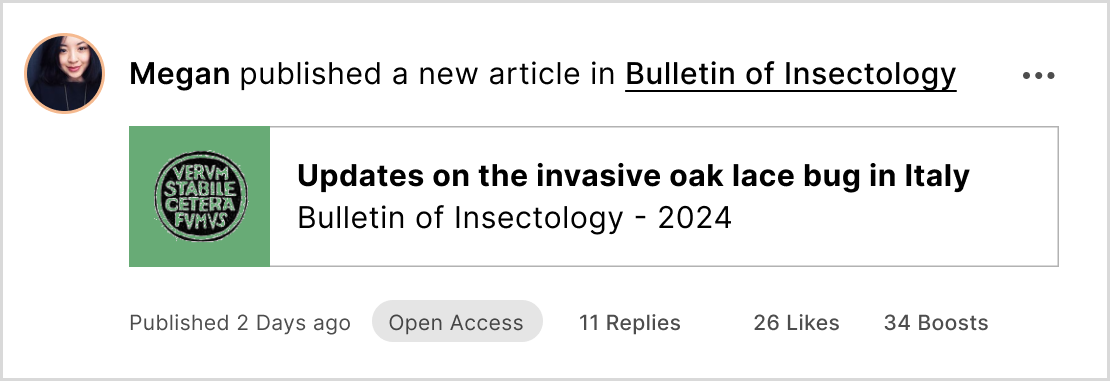
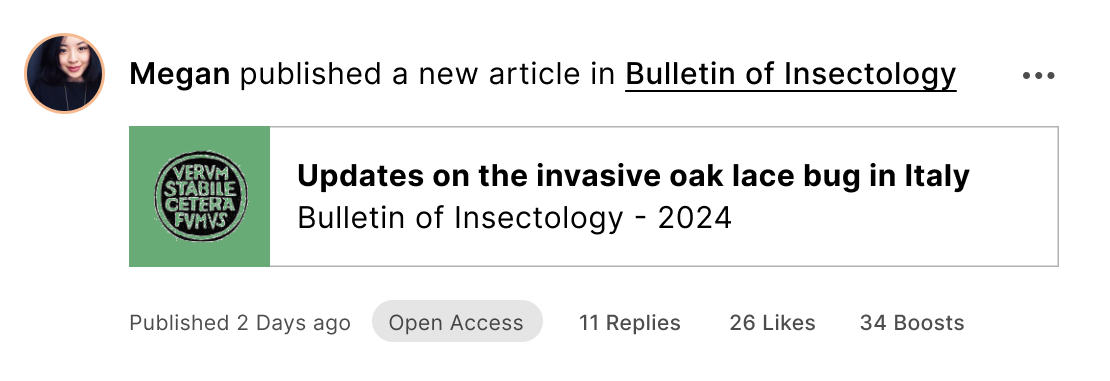
features

Changed region(s): [[0.0, 0.0, 1.0, 1.0], [0.6432, 0.8084, 0.8883, 0.8661]]

diff --git a/css/style_v2.css b/css/style_v2.css
@@ -2655,6 +2655,12 @@ html {
   --tw-scale-y: 1;
 }
 
+.from-purple-600, .to-pink-600 {
+  --tw-gradient-from-position:  ;
+  --tw-gradient-via-position:  ;
+  --tw-gradient-to-position:  ;
+}
+
 .ordinal {
   --tw-ordinal:  ;
   --tw-slashed-zero:  ;
@@ -2670,7 +2676,7 @@ html {
   --tw-shadow-colored: 0 0 #0000;
 }
 
-.ring, .ring-inset {
+.ring, .ring-1, .ring-inset {
   --tw-ring-inset:  ;
   --tw-ring-offset-width: 0px;
   --tw-ring-offset-color: #fff;
@@ -2681,7 +2687,7 @@ html {
   --tw-shadow-colored: 0 0 #0000;
 }
 
-.blur-0, .blur-none, .filter {
+.blur-0, .blur-none, .blur, .filter {
   --tw-blur:  ;
   --tw-brightness:  ;
   --tw-contrast:  ;
@@ -7141,6 +7147,10 @@ details.collapse summary::-webkit-details-marker {
   position: sticky;
 }
 
+.-inset-1 {
+  inset: -0.25rem;
+}
+
 .inset-x-0 {
   left: 0px;
   right: 0px;
@@ -7376,6 +7386,10 @@ details.collapse summary::-webkit-details-marker {
   margin-top: auto;
 }
 
+.-mt-6 {
+  margin-top: -1.5rem;
+}
+
 .block {
   display: block;
 }
@@ -7456,6 +7470,10 @@ details.collapse summary::-webkit-details-marker {
   height: 300px;
 }
 
+.h-8 {
+  height: 2rem;
+}
+
 .max-h-\[520px\] {
   max-height: 520px;
 }
@@ -7500,6 +7518,10 @@ details.collapse summary::-webkit-details-marker {
   width: 100%;
 }
 
+.w-8 {
+  width: 2rem;
+}
+
 .max-w-2xl {
   max-width: 42rem;
 }
@@ -7534,6 +7556,10 @@ details.collapse summary::-webkit-details-marker {
 
 .max-w-screen-xl {
   max-width: 1280px;
+}
+
+.max-w-7xl {
+  max-width: 80rem;
 }
 
 .flex-1 {
@@ -7726,6 +7752,18 @@ details.collapse summary::-webkit-details-marker {
   margin-bottom: calc(1.5rem * var(--tw-space-y-reverse));
 }
 
+.space-x-6 > :not([hidden]) ~ :not([hidden]) {
+  --tw-space-x-reverse: 0;
+  margin-right: calc(1.5rem * var(--tw-space-x-reverse));
+  margin-left: calc(1.5rem * calc(1 - var(--tw-space-x-reverse)));
+}
+
+.space-y-2 > :not([hidden]) ~ :not([hidden]) {
+  --tw-space-y-reverse: 0;
+  margin-top: calc(0.5rem * calc(1 - var(--tw-space-y-reverse)));
+  margin-bottom: calc(0.5rem * var(--tw-space-y-reverse));
+}
+
 .space-y-reverse > :not([hidden]) ~ :not([hidden]) {
   --tw-space-y-reverse: 1;
 }
@@ -7916,6 +7954,20 @@ details.collapse summary::-webkit-details-marker {
   background-image: none;
 }
 
+.bg-gradient-to-r {
+  background-image: linear-gradient(to right, var(--tw-gradient-stops));
+}
+
+.from-purple-600 {
+  --tw-gradient-from: #9333ea var(--tw-gradient-from-position);
+  --tw-gradient-to: rgb(147 51 234 / 0) var(--tw-gradient-to-position);
+  --tw-gradient-stops: var(--tw-gradient-from), var(--tw-gradient-to);
+}
+
+.to-pink-600 {
+  --tw-gradient-to: #db2777 var(--tw-gradient-to-position);
+}
+
 .decoration-slice {
   -webkit-box-decoration-break: slice;
           box-decoration-break: slice;
@@ -8041,6 +8093,16 @@ details.collapse summary::-webkit-details-marker {
 .py-\[4vmin\] {
   padding-top: 4vmin;
   padding-bottom: 4vmin;
+}
+
+.px-7 {
+  padding-left: 1.75rem;
+  padding-right: 1.75rem;
+}
+
+.py-6 {
+  padding-top: 1.5rem;
+  padding-bottom: 1.5rem;
 }
 
 .pb-8 {
@@ -8196,6 +8258,10 @@ details.collapse summary::-webkit-details-marker {
   font-variant-numeric: var(--tw-ordinal) var(--tw-slashed-zero) var(--tw-numeric-figure) var(--tw-numeric-spacing) var(--tw-numeric-fraction);
 }
 
+.leading-none {
+  line-height: 1;
+}
+
 .tracking-wider {
   letter-spacing: 0.05em;
 }
@@ -8233,6 +8299,21 @@ details.collapse summary::-webkit-details-marker {
   color: rgb(255 255 255 / var(--tw-text-opacity));
 }
 
+.text-indigo-400 {
+  --tw-text-opacity: 1;
+  color: rgb(129 140 248 / var(--tw-text-opacity));
+}
+
+.text-purple-600 {
+  --tw-text-opacity: 1;
+  color: rgb(147 51 234 / var(--tw-text-opacity));
+}
+
+.text-slate-800 {
+  --tw-text-opacity: 1;
+  color: rgb(30 41 59 / var(--tw-text-opacity));
+}
+
 .underline {
   text-decoration-line: underline;
 }
@@ -8248,6 +8329,10 @@ details.collapse summary::-webkit-details-marker {
 
 .opacity-80 {
   opacity: 0.8;
+}
+
+.opacity-25 {
+  opacity: 0.25;
 }
 
 .mix-blend-plus-lighter {
@@ -8295,8 +8380,18 @@ details.collapse summary::-webkit-details-marker {
   box-shadow: var(--tw-ring-offset-shadow), var(--tw-ring-shadow), var(--tw-shadow, 0 0 #0000);
 }
 
+.ring-1 {
+  --tw-ring-offset-shadow: var(--tw-ring-inset) 0 0 0 var(--tw-ring-offset-width) var(--tw-ring-offset-color);
+  --tw-ring-shadow: var(--tw-ring-inset) 0 0 0 calc(1px + var(--tw-ring-offset-width)) var(--tw-ring-color);
+  box-shadow: var(--tw-ring-offset-shadow), var(--tw-ring-shadow), var(--tw-shadow, 0 0 #0000);
+}
+
 .ring-inset {
   --tw-ring-inset: inset;
+}
+
+.ring-gray-900\/5 {
+  --tw-ring-color: rgb(17 24 39 / 0.05);
 }
 
 .ring-offset-0 {
@@ -8310,6 +8405,11 @@ details.collapse summary::-webkit-details-marker {
 
 .blur-none {
   --tw-blur: blur(0);
+  filter: var(--tw-blur) var(--tw-brightness) var(--tw-contrast) var(--tw-grayscale) var(--tw-hue-rotate) var(--tw-invert) var(--tw-saturate) var(--tw-sepia) var(--tw-drop-shadow);
+}
+
+.blur {
+  --tw-blur: blur(8px);
   filter: var(--tw-blur) var(--tw-brightness) var(--tw-contrast) var(--tw-grayscale) var(--tw-hue-rotate) var(--tw-invert) var(--tw-saturate) var(--tw-sepia) var(--tw-drop-shadow);
 }
 
@@ -8346,6 +8446,14 @@ details.collapse summary::-webkit-details-marker {
 
 .duration-500 {
   transition-duration: 500ms;
+}
+
+.duration-1000 {
+  transition-duration: 1000ms;
+}
+
+.duration-200 {
+  transition-duration: 200ms;
 }
 
 .ease-in-out {
@@ -8518,6 +8626,19 @@ details.collapse summary::-webkit-details-marker {
 .hover\:text-white:hover {
   --tw-text-opacity: 1;
   color: rgb(255 255 255 / var(--tw-text-opacity));
+}
+
+.group:hover .group-hover\:text-slate-800 {
+  --tw-text-opacity: 1;
+  color: rgb(30 41 59 / var(--tw-text-opacity));
+}
+
+.group:hover .group-hover\:opacity-100 {
+  opacity: 1;
+}
+
+.group:hover .group-hover\:duration-200 {
+  transition-duration: 200ms;
 }
 
 @media (min-width: 640px) {
